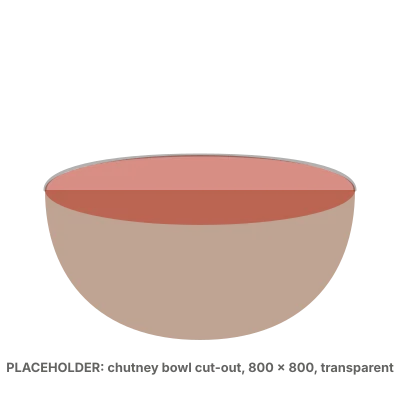
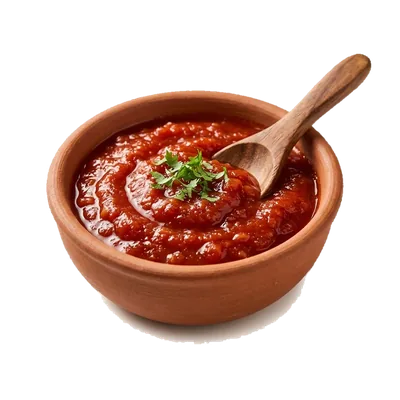
Add premium image set (cut-outs, pack shots, scenes) and image manifest
Claude-Session: https://claude.ai/code/session_01HEiHbuRHgxwEHR95CptpMX

diff --git a/docs/design/image-manifest.md b/docs/design/image-manifest.md
@@ -1,0 +1,39 @@
+# Image manifest
+
+Status: v1, 2026-11-10. All images are in `frontend/assets/img/` as WebP. Every one is **AI-generated** and is a mood placeholder until her real photos exist (decision D-017). Never present them as her real kitchen or her actual packs.
+
+## How each type must be used
+
+- **Cut-out** (real transparency): place on white, `--green-tint`, `--peach` or `--peach-tint`. The chutney and step cut-outs keep a soft baked shadow under them, so **do not place those on emerald**. The hero and the single momo have no baked shadow; add `--shadow-card` with `filter: drop-shadow(...)` if wanted.
+- **Multiply** (opaque, white background): the two pack shots. Show them with `mix-blend-mode: multiply` inside a container that has `isolation: isolate` and a light tinted background (white or `--green-tint`). The white disappears and the clear plastic stays transparent. Do not add a drop-shadow filter or an opacity animation to these, and do not place them on a dark background.
+- **Scene** (opaque photo): used as a framed image, never as a stretched full-bleed band (see sizes).
+
+## Files
+
+| File (+ smaller variant) | Size | Type | Where | Suggested alt text |
+|---|---|---|---|---|
+| `cutout-hero.webp` (+ `-600`) | 1200 x 1200 | cut-out | Hero panel | "A bamboo steamer of steamed momo, lid resting beside it" |
+| `cutout-momo.webp` (+ `-400`) | 800 x 800 | cut-out | Steps section; spare | "A single pleated momo" |
+| `cutout-chutney.webp` (+ `-400`) | 800 x 800 | cut-out | Chutney tile | "A clay bowl of red tomato chutney with a wooden spoon" |
+| `cutout-step-wrapper.webp` (+ `-300`) | 600 x 600 | cut-out | Steps: wrapper | "A thin round of dough" |
+| `cutout-step-fold.webp` (+ `-300`) | 600 x 600 | cut-out | Steps: fold | "A momo being folded around a filling" |
+| `cutout-step-finished.webp` (+ `-300`) | 600 x 600 | cut-out | Steps: finished | "A finished, pleated momo" |
+| `pack-chicken.webp` (+ `-400`) | 800 x 800 | multiply | Product card, slug `chicken-momo` | "A bag of frozen momo tied with twine and a blank paper tag" |
+| `pack-veg.webp` (+ `-400`) | 800 x 800 | multiply | Product card, slug `veg-momo` | same wording |
+| `photo-kitchen-corner.webp` (+ `-800`) | 1024 x 687 | scene | Made-together band, how to cook | "A home kitchen corner with a brick wall, wooden counter and a bamboo steamer" |
+| `photo-plate.webp` (+ `-800`) | 1024 x 687 | scene | Spare (banner or shop header) | "A plate of steamed momo with a small bowl of tomato chutney" |
+
+Variants named `-400`, `-300` and `-600` are the smaller sizes for `srcset`; the full-size file has no suffix. The old `placeholder-kitchen-corner*.webp` files can be deleted once nothing refers to them. `placeholder-og.webp` stays until the social preview image exists (Step 5).
+
+## Known limits (do not hide these)
+
+1. **The hero lid is cut off by the right edge** of the image canvas: the lid extends past the frame in the source. Position the hero so its right edge sits flush with the panel or the viewport edge, or replace it with a regenerated hero (the lid and steamer fully inside the frame with margin).
+2. **The two pack shots look almost the same** (same bag, tag and angle) and show roughly 9 to 12 momo, not 40. They are placeholders. The product name, size and price carry the difference. Replace both with real photos before launch.
+3. **Scenes are only 1024 px wide.** Show them in a framed or half-width container up to about their native width. Do not stretch them across a wide band; they will look soft. Regenerate at larger size if a wide banner is wanted.
+4. **No steam in the hero image**: the baked steam was removed with the old background. The CSS steam wisps provide it.
+5. **The product `photo` field in the database** can point at an uploaded image later; these files are only the fallbacks for the seeded products.
+6. **Placeholder honesty:** keep the "photo coming soon" status in the report; add the real photos when she has them and remove these.
+
+## Replacement plan
+
+When her real product photos exist: photograph each pack on a plain light background, keep the same file names and sizes, and the layout needs no changes.

diff --git a/docs/instructions/step-1d-hybrid-premium.md b/docs/instructions/step-1d-hybrid-premium.md
@@ -45,7 +45,7 @@ How to cook, cart and done: same header and footer, the new palette, calm and fu
 
 ## Images (the biggest factor in how premium this looks)
 
-Premium comes mostly from photography. Wire these slots with transparent cut-outs in mind, `width` and `height`, `srcset`, lazy loading below the fold, honest alt text, and use `--shadow-card` where an image overlaps: hero (about 1200 by 1200), each product card (about 800 by 800 each, from the product's `photo`, falling back to a placeholder), chutney bowl (about 800 by 800), and kitchen (about 1200 by 800). **Placeholders must look intentional:** a tonal tile with a quiet single-stroke line drawing (momo, steamer, bowl) in sage on the tint, small and clearly a placeholder, not a flat grey box. List the exact filenames and sizes in your report. The owner will supply the real images.
+Premium comes mostly from photography. Wire these slots with transparent cut-outs in mind, `width` and `height`, `srcset`, lazy loading below the fold, honest alt text, and use `--shadow-card` where an image overlaps: hero (about 1200 by 1200), each product card (about 800 by 800 each, from the product's `photo`, falling back to a placeholder), chutney bowl (about 800 by 800), and kitchen (about 1200 by 800). **Placeholders must look intentional:** a tonal tile with a quiet single-stroke line drawing (momo, steamer, bowl) in sage on the tint, small and clearly a placeholder, not a flat grey box. **The images now exist:** they are already in `frontend/assets/img/`. Read `docs/design/image-manifest.md` first and follow it exactly: which files are cut-outs, which two pack shots need `mix-blend-mode: multiply` on a light tinted container, where each one goes, the suggested alt text, and the known limits (the hero lid is clipped on its right edge; the scenes are 1024 px wide). Wire these real files in place of the placeholders, keep the filenames, and delete placeholder files nothing refers to any more. Seed product `photo` values: `chicken-momo` uses `pack-chicken`, `veg-momo` uses `pack-veg`; the sauce pots keep the intentional placeholder until they have images. Report any asset you could not use as the manifest describes.
 
 ## Do not
 
